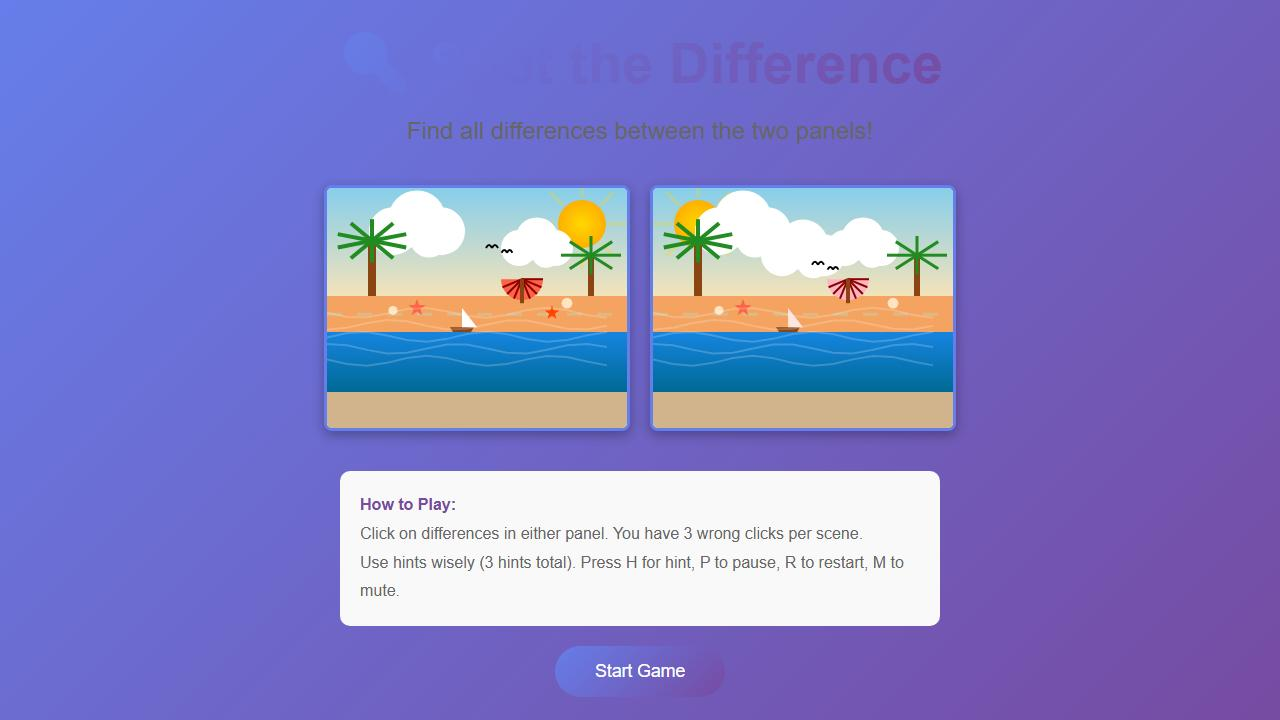
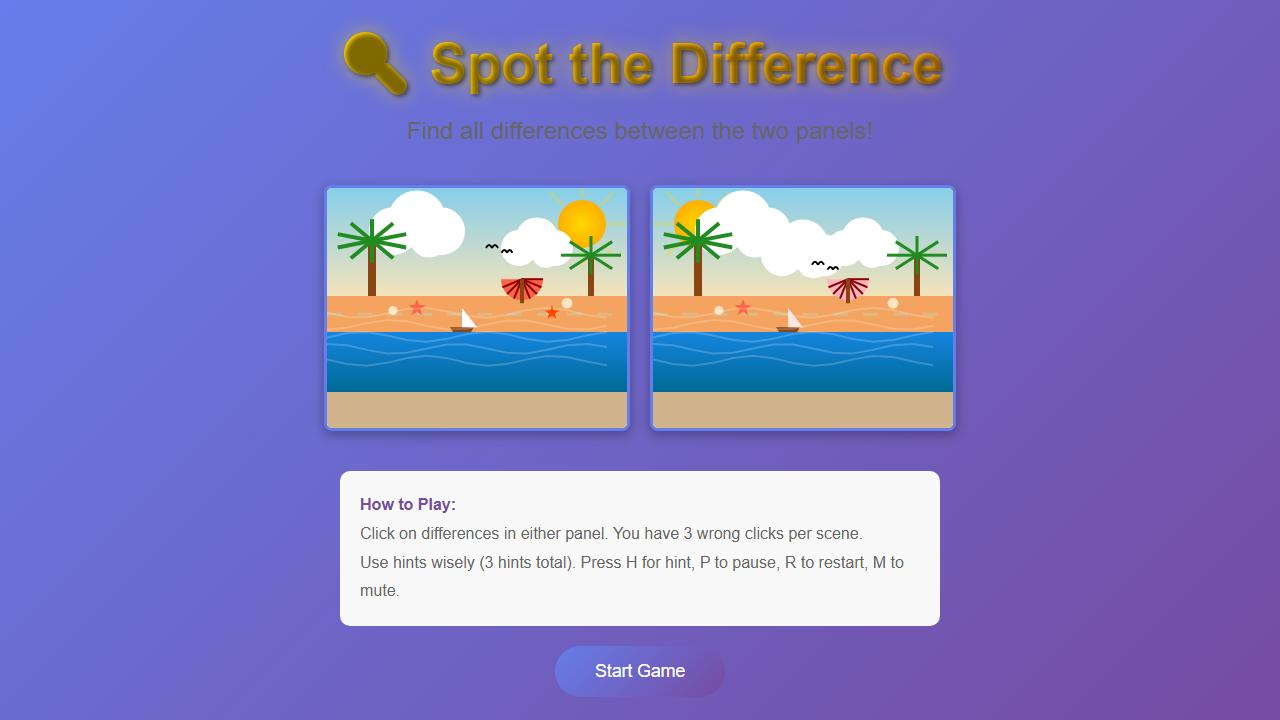
Fix: readable title on dark bg, smooth forest ground, new screenshots (Beach, Lantern Market, Clockwork Garden, Title)

Changed region(s): [[0.25, 0.0306, 0.75, 0.1528]]

diff --git a/take-screenshots.ts b/take-screenshots.ts
@@ -37,7 +37,8 @@ await page.goto(`http://localhost:${PORT}`, { waitUntil: 'networkidle' });
 
 mkdirSync('screenshots', { recursive: true });
 
-// Screenshot 0: Title screen  
+// Screenshot 0: Title screen - wait for animations
+await page.waitForTimeout(2000);
 await page.screenshot({
   path: 'screenshots/4-title.jpg',
   fullPage: false,
@@ -50,18 +51,17 @@ console.log('Screenshot 4 taken: 4-title.jpg');
 await page.click('button#startBtn');
 await page.waitForTimeout(500);
 
-// Find canvas elements and get their positions
+// Find canvas elements
 const leftCanvas = page.locator('canvas').first();
-const rightCanvas = page.locator('canvas').nth(1);
 
-// Wait for timer to run a bit
+// Wait for timer to run
 await page.waitForTimeout(3000);
 
-// Click on actual differences based on scene data
+// Click on Beach scene differences
 const diffsToClick = [
-  { x: 0.85, y: 0.15 },  // Sun
-  { x: 0.65, y: 0.38 },  // Umbrella
-  { x: 0.45, y: 0.58 },  // Sailboat
+  { x: 0.85, y: 0.15 },
+  { x: 0.65, y: 0.38 },
+  { x: 0.45, y: 0.58 },
 ];
 
 for (const diff of diffsToClick) {
@@ -74,17 +74,16 @@ for (const diff of diffsToClick) {
   }
 }
 
-// Wait for timer to run more
 await page.waitForTimeout(2000);
 
-// Screenshot 2: Playing with some found (COVER)
+// Screenshot 1: Beach scene playing (COVER)
 await page.screenshot({
   path: 'screenshots/1-play.png',
   fullPage: false,
 });
 console.log('Screenshot 1 taken: 1-play.png (cover)');
 
-// Click remaining differences to complete scene
+// Complete beach scene
 const remainingDiffs = [
   { x: 0.5, y: 0.3 },
   { x: 0.3, y: 0.5 },
@@ -104,39 +103,128 @@ for (const diff of remainingDiffs) {
 
 await page.waitForTimeout(500);
 
-// Screenshot 3: Scene complete overlay
-await page.screenshot({
-  path: 'screenshots/2-complete.png',
-  fullPage: false,
-});
-console.log('Screenshot 2 taken: 2-complete.png');
-
-// Continue to next scene
+// Continue through scenes to Lantern Market
 await page.click('button#nextBtn');
 await page.waitForTimeout(500);
 
-// Click a few in scene 2
-const scene2Diffs = [
-  { x: 0.85, y: 0.15 },
-  { x: 0.4, y: 0.58 },
+// Complete Forest
+const forest2Diffs = [
+  { x: 0.85, y: 0.15 }, { x: 0.5, y: 0.42 }, { x: 0.35, y: 0.62 },
+  { x: 0.4, y: 0.58 }, { x: 0.62, y: 0.3 }, { x: 0.55, y: 0.56 },
+  { x: 0.25, y: 0.22 }
 ];
 
-for (const diff of scene2Diffs) {
+for (const diff of forest2Diffs) {
   const bbox = await leftCanvas.boundingBox();
   if (bbox) {
     const clickX = bbox.x + bbox.width * diff.x;
     const clickY = bbox.y + bbox.height * diff.y;
     await page.mouse.click(clickX, clickY);
-    await page.waitForTimeout(300);
+    await page.waitForTimeout(150);
   }
 }
 
-// Screenshot 4: Scene 2 in progress
+await page.waitForTimeout(500);
+await page.click('button#nextBtn');
+await page.waitForTimeout(500);
+
+// Complete Mountain
+const mountain3Diffs = [
+  { x: 0.7, y: 0.6 }, { x: 0.45, y: 0.76 }, { x: 0.15, y: 0.08 },
+  { x: 0.5, y: 0.25 }, { x: 0.25, y: 0.3 }, { x: 0.68, y: 0.77 },
+  { x: 0.7, y: 0.55 }
+];
+
+for (const diff of mountain3Diffs) {
+  const bbox = await leftCanvas.boundingBox();
+  if (bbox) {
+    const clickX = bbox.x + bbox.width * diff.x;
+    const clickY = bbox.y + bbox.height * diff.y;
+    await page.mouse.click(clickX, clickY);
+    await page.waitForTimeout(150);
+  }
+}
+
+await page.waitForTimeout(500);
+await page.click('button#nextBtn');
+await page.waitForTimeout(500);
+
+// Now at Lantern Market - click some diffs
+await page.waitForTimeout(2000);
+
+const lanternDiffs = [
+  { x: 0.25, y: 0.37 },
+  { x: 0.47, y: 0.4 },
+  { x: 0.35, y: 0.75 },
+];
+
+for (const diff of lanternDiffs) {
+  const bbox = await leftCanvas.boundingBox();
+  if (bbox) {
+    const clickX = bbox.x + bbox.width * diff.x;
+    const clickY = bbox.y + bbox.height * diff.y;
+    await page.mouse.click(clickX, clickY);
+    await page.waitForTimeout(400);
+  }
+}
+
+await page.waitForTimeout(1500);
+
+// Screenshot 2: Lantern Market playing
 await page.screenshot({
-  path: 'screenshots/3-scene2.png',
+  path: 'screenshots/2-lantern.png',
   fullPage: false,
 });
-console.log('Screenshot 3 taken: 3-scene2.png');
+console.log('Screenshot 2 taken: 2-lantern.png');
+
+// Complete Lantern Market
+const lanternRemaining = [
+  { x: 0.15, y: 0.68 },
+  { x: 0.7, y: 0.1 },
+  { x: 0.85, y: 0.2 },
+  { x: 0.5, y: 0.88 }
+];
+
+for (const diff of lanternRemaining) {
+  const bbox = await leftCanvas.boundingBox();
+  if (bbox) {
+    const clickX = bbox.x + bbox.width * diff.x;
+    const clickY = bbox.y + bbox.height * diff.y;
+    await page.mouse.click(clickX, clickY);
+    await page.waitForTimeout(150);
+  }
+}
+
+await page.waitForTimeout(500);
+await page.click('button#nextBtn');
+await page.waitForTimeout(500);
+
+// Now at Clockwork Garden - click some diffs
+await page.waitForTimeout(2000);
+
+const clockworkDiffs = [
+  { x: 0.3, y: 0.35 },
+  { x: 0.5, y: 0.25 },
+];
+
+for (const diff of clockworkDiffs) {
+  const bbox = await leftCanvas.boundingBox();
+  if (bbox) {
+    const clickX = bbox.x + bbox.width * diff.x;
+    const clickY = bbox.y + bbox.height * diff.y;
+    await page.mouse.click(clickX, clickY);
+    await page.waitForTimeout(400);
+  }
+}
+
+await page.waitForTimeout(1500);
+
+// Screenshot 3: Clockwork Garden playing
+await page.screenshot({
+  path: 'screenshots/3-clockwork.png',
+  fullPage: false,
+});
+console.log('Screenshot 3 taken: 3-clockwork.png');
 
 await browser.close();
 server.close();

diff --git a/game/scene-art.js b/game/scene-art.js
@@ -202,7 +202,7 @@ export class SceneArt {
     ctx.fillStyle = skyGrad;
     ctx.fillRect(0, 0, w, h * 0.6);
 
-    // Ground
+    // Ground base
     ctx.fillStyle = '#8B6F47';
     ctx.fillRect(0, h * 0.6, w, h * 0.4);
 
@@ -211,9 +211,15 @@ export class SceneArt {
     ctx.fillRect(0, h * 0.58, w, h * 0.05);
     ctx.fillStyle = '#4A7C0C';
     ctx.fillRect(0, h * 0.55, w, h * 0.05);
+    
+    // Grass tufts instead of vertical lines
     ctx.fillStyle = '#5A9C0D';
-    for (let i = 0; i < w; i += 15) {
-      ctx.fillRect(i, h * 0.6, 8, h * 0.4);
+    for (let i = 0; i < w; i += 20) {
+      for (let j = 0; j < 8; j++) {
+        const x = i + Math.random() * 15;
+        const y = h * (0.6 + j * 0.05) + Math.random() * 10;
+        ctx.fillRect(x, y, 3, 8);
+      }
     }
 
     // Sun

diff --git a/game/style.css b/game/style.css
@@ -62,10 +62,12 @@ body {
 
 .title-screen h1 {
   font-size: 3.5em;
-  background: linear-gradient(135deg, #667eea 0%, #764ba2 100%);
+  background: linear-gradient(135deg, #FFD700 0%, #FFA500 100%);
   -webkit-background-clip: text;
   -webkit-text-fill-color: transparent;
   background-clip: text;
+  text-shadow: 2px 2px 4px rgba(0, 0, 0, 0.5);
+  filter: drop-shadow(0 0 10px rgba(255, 215, 0, 0.5));
 }
 
 .title-screen p {
